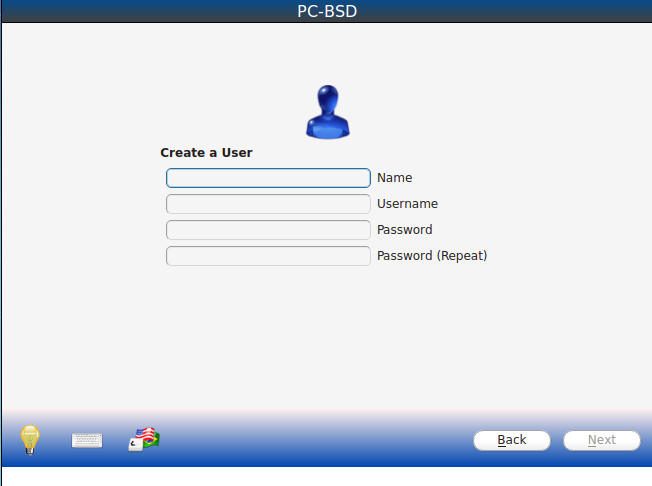
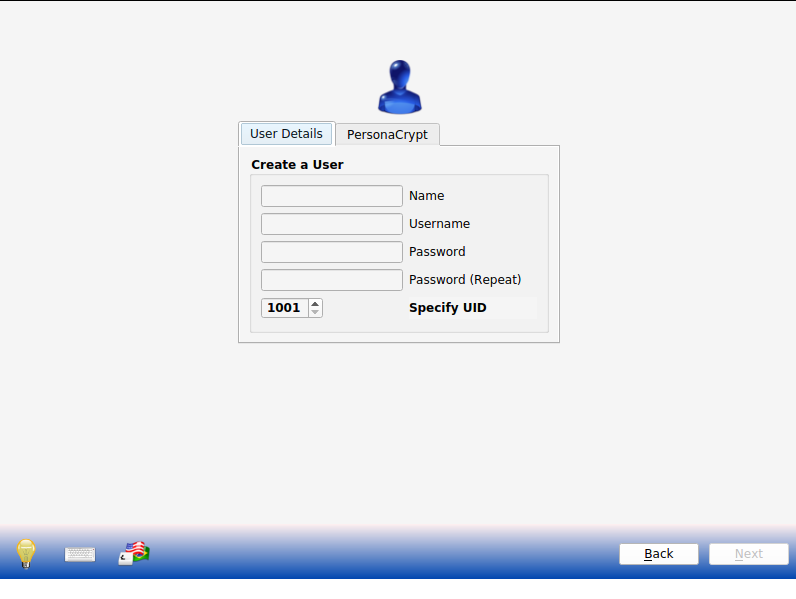
Add images for personacrypt config during post-install.

Changed region(s): [[0.0, 0.8333, 1.0, 0.9877], [0.2454, 0.0926, 0.7362, 0.5864], [0.0, 0.0, 1.0, 0.0617]]

diff --git a/docs/postinstall.rst b/docs/postinstall.rst
@@ -198,6 +198,26 @@ This screen requires you to complete the following fields:
 
 * **Password:** this is the password you will use when logging in. You must type it twice in order to confirm it.
 
+* **Specify UID:** by default, the user will be assigned the next available User ID (UID). If you need to force a specific UID, you can set it here. Note that you
+  cannot set a UID lower than 1001 or specify a UID that is already in use by another user account.
+  
+A new feature in 10.1.2 is the ability to use a removable device, such as a USB stick, as the user's encrypted home directory. This is useful in a multi-user
+or multi-computer environment as it provides the user with secure access to their encrypted files.  When a user is configured to use PersonaCrypt, they will be
+prompted to insert their removable media when :ref:`Logging In` and to input the password associated with the removable device.
+
+The "PersonaCrypt" tab, shown in Figure 4.5b, is used to initialize PersonaCrypt for the user.
+
+**Figure 4.5b: Initializing PersonaCrypt for this User**
+
+.. image:: images/persona1.png
+
+Check the box "Initialize PersonaCrypt Device", insert the removable media, and click the "Select" button.
+
+.. warning:: make sure you do not have any files that you wish to keep on the removable media. Initializing the media for PersonaCrypt will format the device with
+   ZFS and encrypt it with GELI, meaning that any existing data will be destroyed.
+   
+Input and repeat the "Device Password" to associate with the device.
+
 If you share your computer with other users, you will be able to create additional user accounts once you are logged in using
 :menuselection:`Control Panel --> User Manager`.
 

diff --git a/docs/introduction.rst b/docs/introduction.rst
@@ -184,6 +184,8 @@ The following features or enhancements were introduced for PC-BSD® 10.1.2:
 
 * The options in the :ref:`Advanced Mode` screen of the installer have been streamlined.
 
+* The ability to create a PersonaCrypt user has been added to the :ref:`Create a User Screen`.
+
 * IPFW is now the default firewall. :ref:`Firewall Manager` has been redesigned to use IPFW and its UI has been simplified to make it easier to use.
 
 .. index:: Linux
